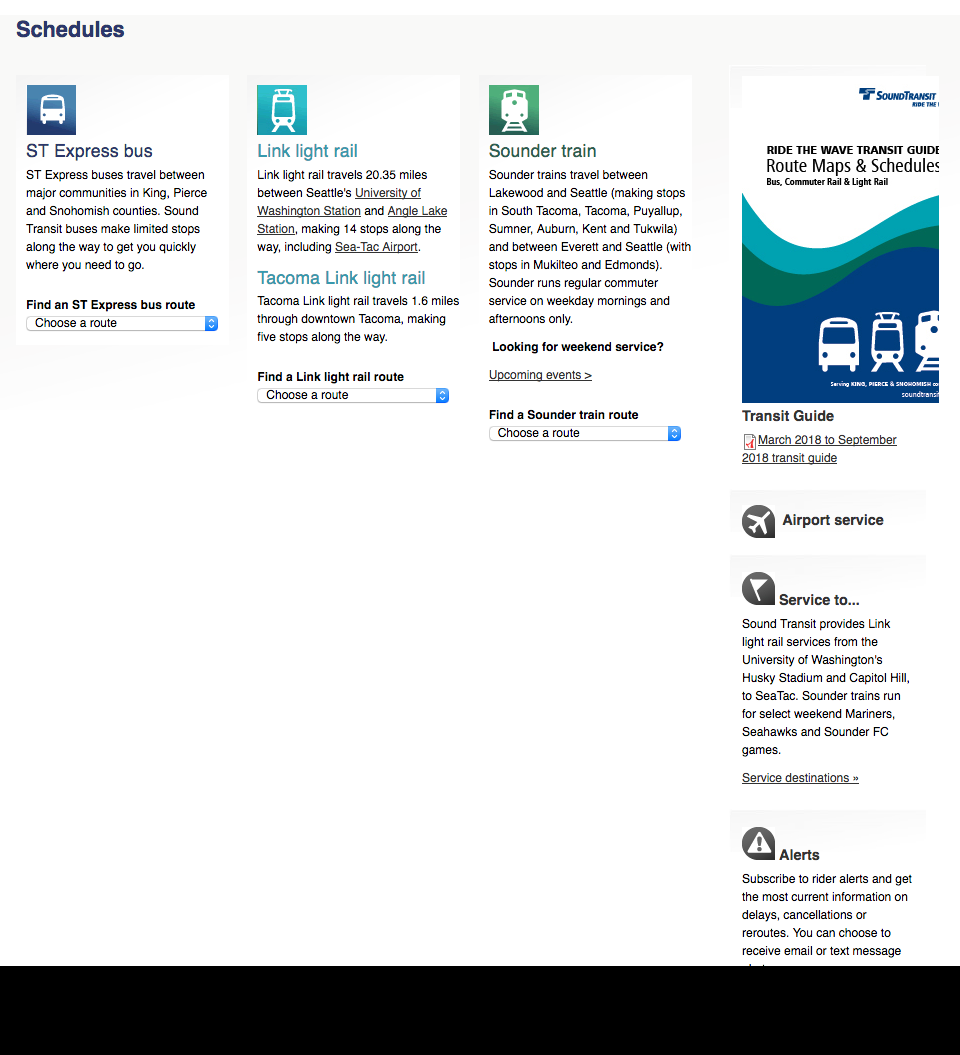
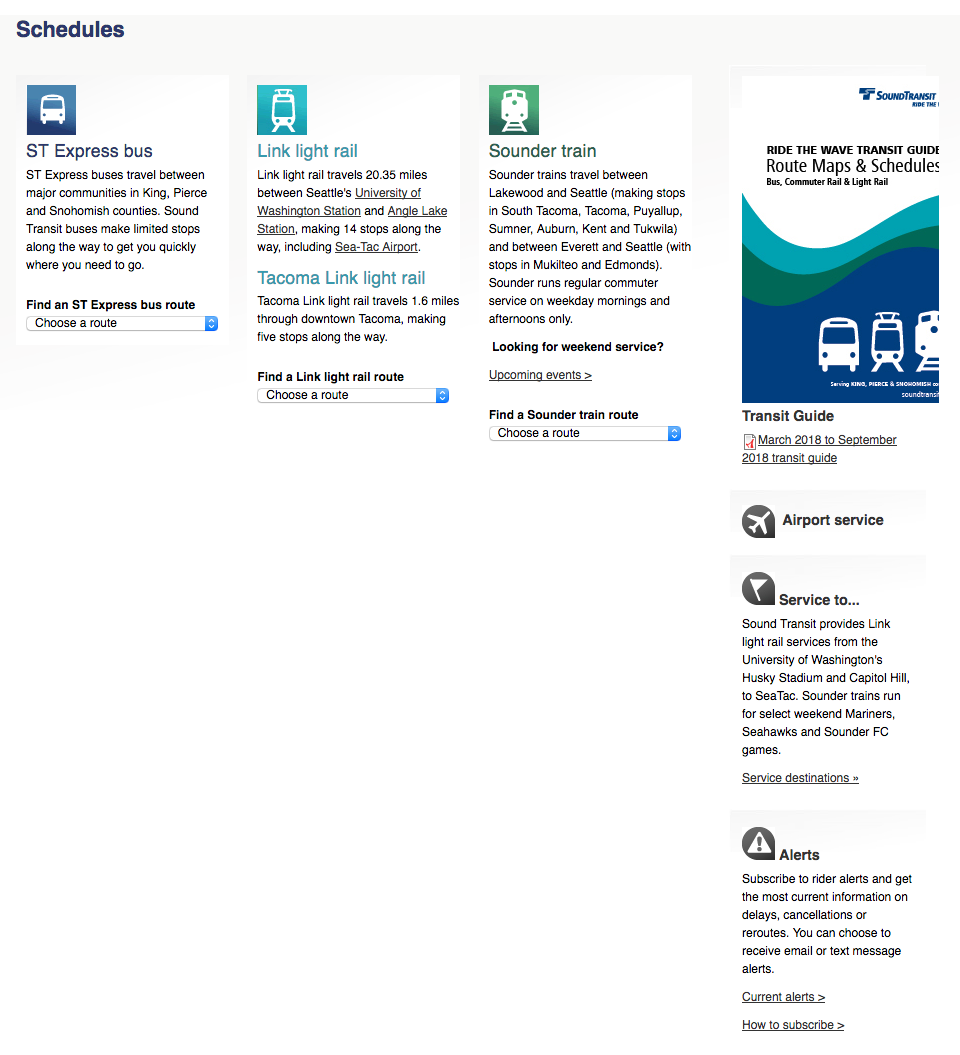
set window size before taking screenshot

Changed region(s): [[0.0, 0.91, 1.0, 1.0]]

diff --git a/build/Index.html b/build/Index.html
@@ -515,7 +515,7 @@
                             <tr>
                                 <th>Build on:</th>
                                 <td>
-                                    Tue 26 Jun 2018 19:07
+                                    Tue 26 Jun 2018 20:58
                                 </td>
                                 <td></td>
                             </tr>
@@ -679,7 +679,16 @@
                                                         <div class="dd-nodrag dd-success">
                                                             <b>Then</b> the main schedules page should look the same as last time
                                                         </div>
-                                                         
+                                                                                                                  <ol class="dd-list">
+                                                             <li class="dd-item step-argument dd-collapsed" data-id="step-1-1--argument">
+                                                                 <div class="dd-nodrag dd-success">
+                                                                                                                                                                                                                                                                                                                                                                                                                                                                                                   <p style="padding-left:2em ; color:black">| elementWidth:960 elementHeight:1051 windowWidth: 1200 windowHeight:1293 viewPortWidth:1200 viewPortHeight:1179<br />
+newWindowWidth:1200 newWindowHeight:1293<br />
+</p>
+                                                                                                                                     </div>
+                                                             </li>
+                                                         </ol>
+                                                        
                                                                                                             </li>
                                                                                                     </ol>
                                             </li>
@@ -736,7 +745,19 @@
                                                         <div class="dd-nodrag dd-success">
                                                             <b>Then</b> the main schedules page should look the same as last time
                                                         </div>
-                                                         
+                                                                                                                  <ol class="dd-list">
+                                                             <li class="dd-item step-argument dd-collapsed" data-id="step-2-1--argument">
+                                                                 <div class="dd-nodrag dd-success">
+                                                                                                                                                                                                                                                                                                                                                                                                                                                                                                   <p style="padding-left:2em ; color:black">| elementWidth:960 elementHeight:1055 windowWidth: 1280 windowHeight:1040 viewPortWidth:1280 viewPortHeight:966<br />
+newWindowWidth:1280 newWindowHeight:1129<br />
+WARN: MASTER AND TAKEN IMAGES TAKEN AT SAME TIME. RUN AGAIN FOR TRUE DIFF TEST.<br />
+elementWidth:960 elementHeight:1055 windowWidth: 1280 windowHeight:1129 viewPortWidth:1280 viewPortHeight:1055<br />
+newWindowWidth:1280 newWindowHeight:1129<br />
+</p>
+                                                                                                                                     </div>
+                                                             </li>
+                                                         </ol>
+                                                        
                                                                                                             </li>
                                                                                                     </ol>
                                             </li>
@@ -862,7 +883,7 @@
                     6 steps ( <strong class="passed">6 success</strong> )
                 </p>
                 <p class="time">
-                0m10.34s - 12.19Mb
+                0m12.40s - 12.22Mb
                 </p>
             </div>
             <div class="switchers">

diff --git a/features/bootstrap/Utilities/Screenshot.php b/features/bootstrap/Utilities/Screenshot.php
@@ -3,6 +3,7 @@ namespace Utilities;
 
 use CommonContext;
 use Facebook\WebDriver\WebDriverElement;
+use Facebook\WebDriver\WebDriverDimension;
 use Imagick; //must install ImageMagick and the PHP imagick extension (see notes)
 use Utilities\Utility;
 
@@ -31,12 +32,7 @@ class Screenshot {
             $element_screenshot = Screenshot::takenElementScreenshotPath($moniker);
         }
         
-        //move to element so it's clearly in the view
-        if(CommonContext::$browser==='firefox') {
-            Utility::scrollToElement($element); //moveToElement does not work for firefox, so need to scroll manually
-        } else {
-            $driver->action()->moveToElement($element)->perform();
-        }
+        Screenshot::optimizeWindowForElementScreenshot($element);
         
         //take full page screenshot to crop element screenshot from
         $screenshot = Screenshot::takeScreenshot($driver);
@@ -121,5 +117,44 @@ class Screenshot {
         
         //screenshots should be specific to browser too, since they take screenshots slightly differently
         return '-'.CommonContext::$browser.'-'.$devicePixelRatio.'.png';
+    }
+    
+    private static function optimizeWindowForElementScreenshot(WebDriverElement $element) {
+        //get element, window, and viewport dimensions and calculate new window size
+        $elementWidth = $element->getSize()->getWidth();
+        $elementHeight = $element->getSize()->getHeight();
+        $windowSize = CommonContext::$driver->manage()->window()->getSize();
+        $windowWidth = $windowSize->getWidth();
+        $windowHeight = $windowSize->getHeight();
+        $viewPortSize = CommonContext::$driver->executeScript("return [window.innerWidth, window.innerHeight];");
+        $viewPortWidth = $viewPortSize[0];
+        $viewPortHeight = $viewPortSize[1];
+        $nonViewPortWidth = $windowWidth - $viewPortWidth;
+        $nonViewPortHeight = $windowHeight - $viewPortHeight;
+        
+        print("elementWidth:".$elementWidth." elementHeight:".$elementHeight." windowWidth: ".$windowWidth." windowHeight:".$windowHeight." viewPortWidth:".$viewPortWidth." viewPortHeight:".$viewPortHeight."\n");
+
+        $newWindowWidth = $windowWidth;
+        $newWindowHeight = $windowHeight;
+        
+        if($elementWidth > $viewPortWidth) {
+            $newWindowWidth = $elementWidth + $nonViewPortWidth;
+        }
+        
+        if($elementHeight > $viewPortHeight) {
+            $newWindowHeight = $elementHeight + $nonViewPortHeight;
+        }
+        
+        print("newWindowWidth:".$newWindowWidth." newWindowHeight:".$newWindowHeight."\n");
+        //set window size to fit element
+        CommonContext::$driver->manage()->window()->setSize(new WebDriverDimension($newWindowWidth,$newWindowHeight));
+        
+        //move to element so it's clearly in the view
+        if(CommonContext::$browser==='firefox') {
+            Utility::scrollToElement($element); //moveToElement does not work for firefox, so need to scroll manually
+        } else {
+            CommonContext::$driver->action()->moveToElement($element)->perform();
+        }
+        
     }
 }
